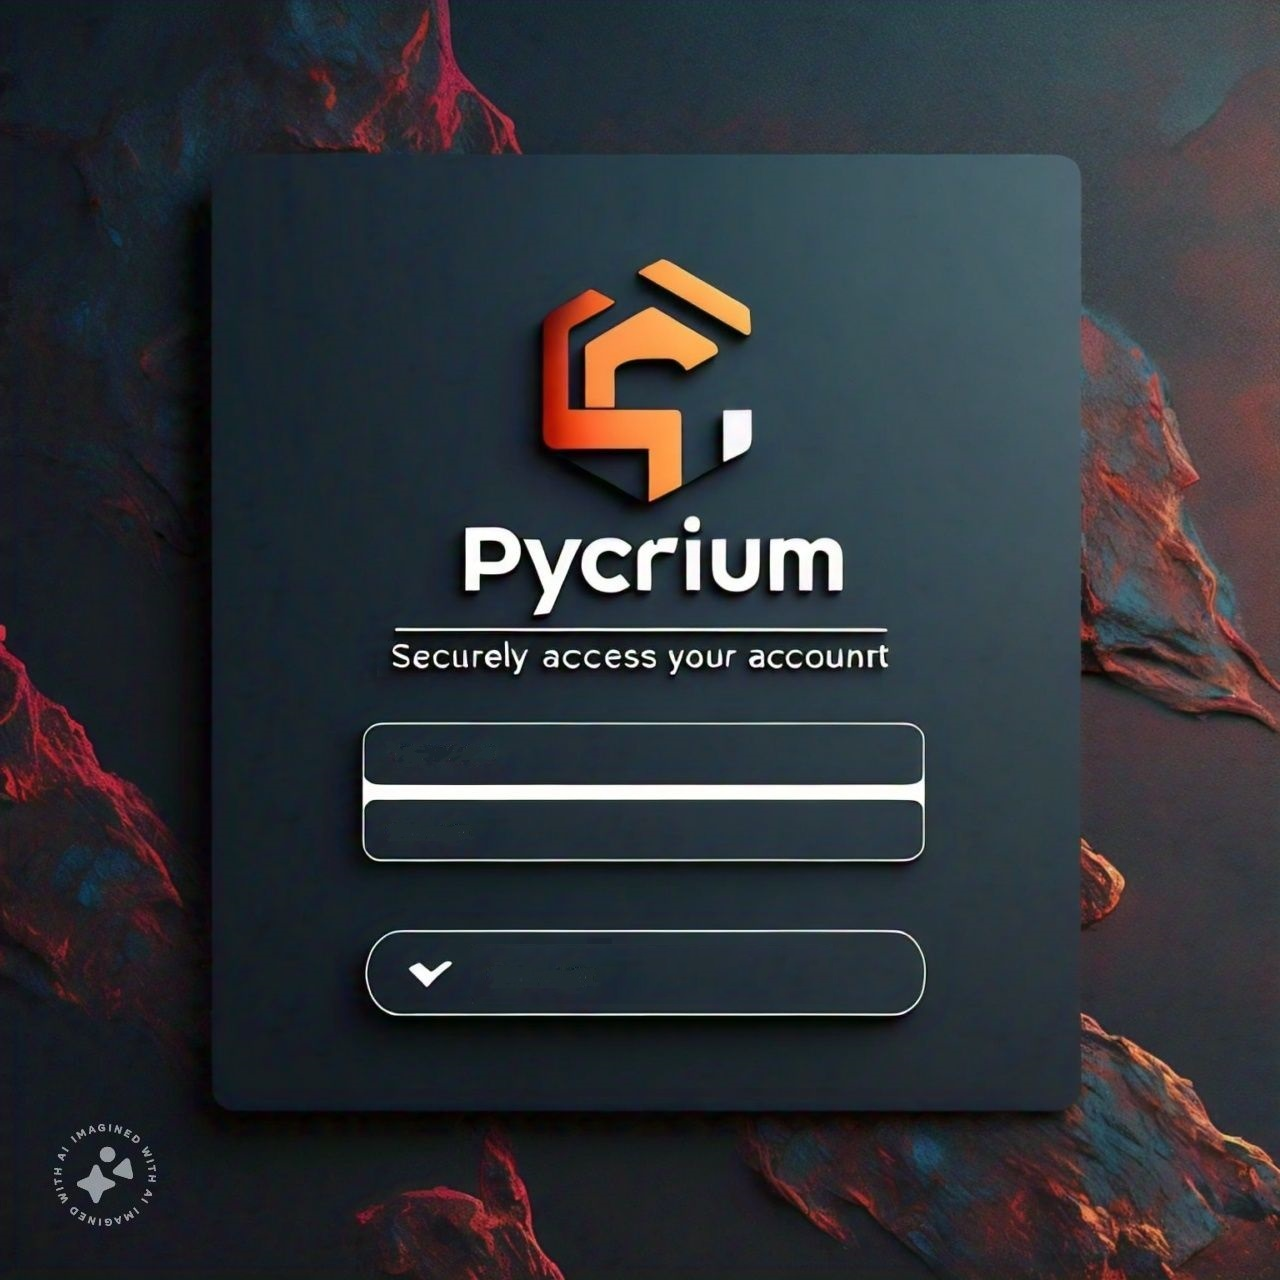
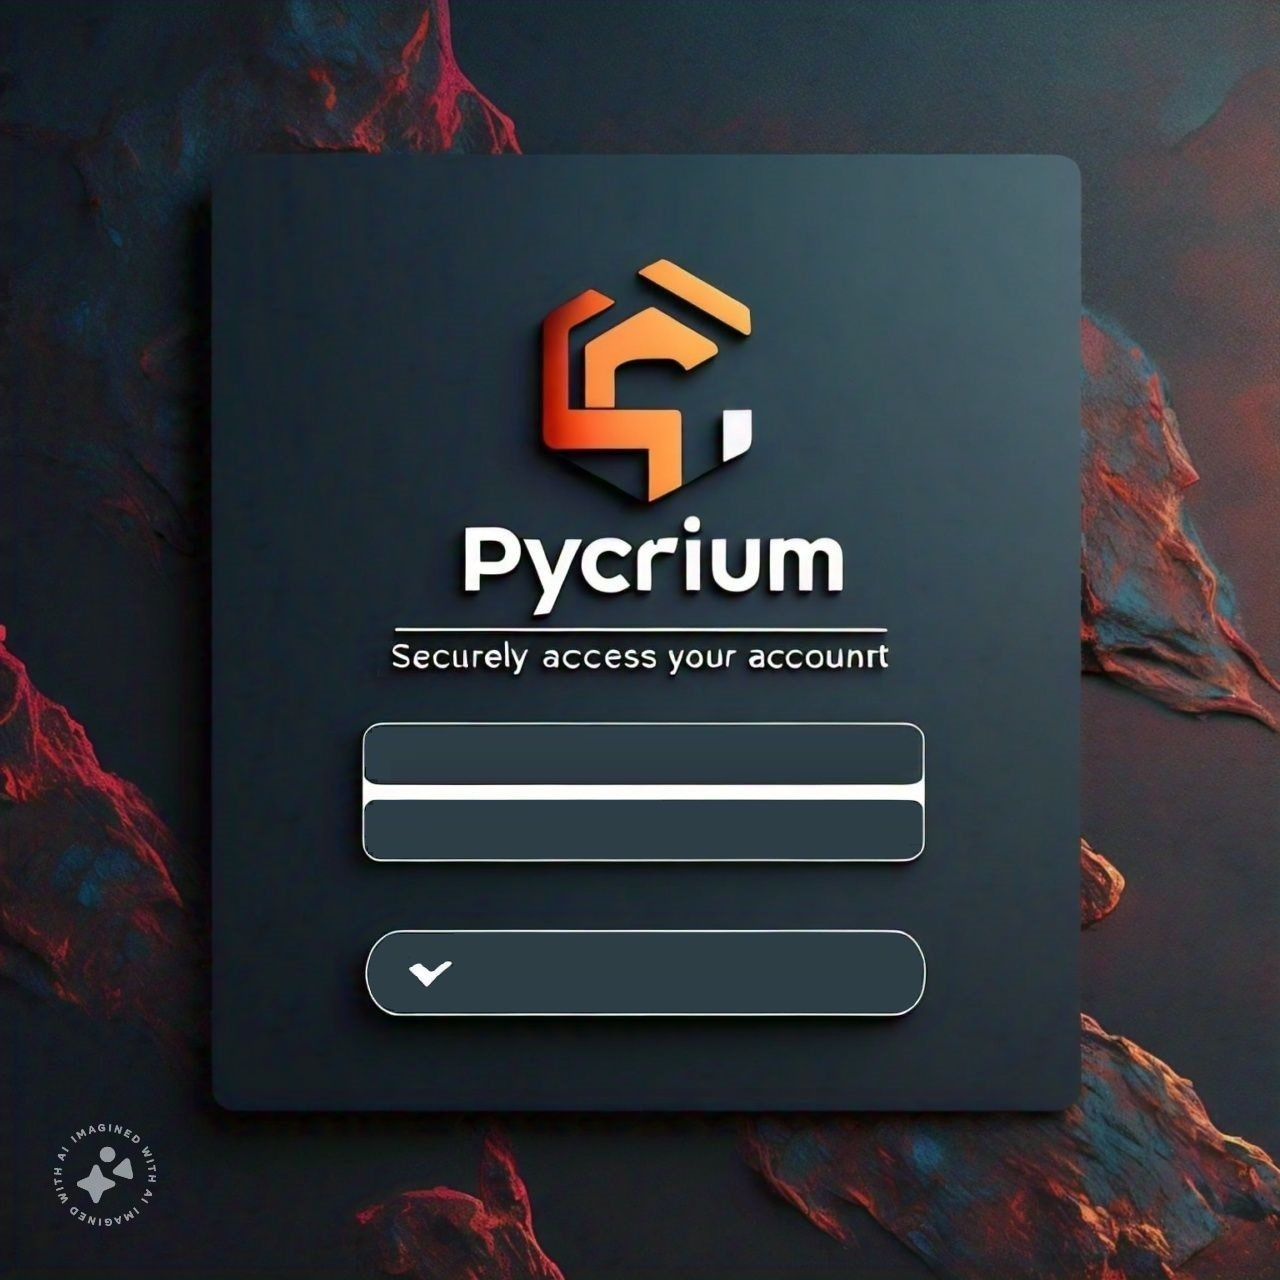
Add files via upload

Changed region(s): [[0.2812, 0.7188, 0.4688, 0.8125], [0.2812, 0.5625, 0.375, 0.6875], [0.4688, 0.75, 0.5, 0.7812]]

diff --git a/Pycrium/main2.py b/Pycrium/main2.py
@@ -5,7 +5,7 @@ import socket
 import pickle
 import re
 
-HOST = '192.168.1.3'
+HOST = '192.168.1.4'
 PORT = 1000
 server = socket.socket(socket.AF_INET,socket.SOCK_STREAM)
 server.connect((HOST, PORT))
@@ -96,29 +96,44 @@ class Login:
         root.title("Login")
         root.attributes('-fullscreen', True)
         root.configure(bg="black")
-        
+
+        def on_entry_click(event,text,object):
+            if object.get()==text:
+                object.delete(0,"end")  
+                if object==password_entry:object.config(show="*")  
+
+        def on_focus_out(event,text,object):
+            if object.get()=='':
+                object.insert(0,text)
+                object.config(show="")
+
         try:
             background_image = assets.GetImage("Assets\\LoginPage\\LoginPage.jpeg")
-            root.background_image = background_image  # Keep a reference to the image object
-            background_label = tk.Label(root, image=background_image)
+            root.background_image = background_image
+            background_label = tk.Label(root, image=background_image, bg='Black')
             background_label.place(x=0, y=0, relwidth=1, relheight=1)
         except Exception as e:
             print("Error loading background image:", e)
 
-        username_label = tk.Label(root, text="Username:")
-        username_label.pack()
-        
-        username_entry = tk.Entry(root)
-        username_entry.pack()
+        username_entry = tk.Entry(root,font=('Gill Sans Ultra Bold',23),fg='White',bg="#2D3E45", width=21,borderwidth=0,highlightthickness=0)
+        username_entry.bind('<FocusIn>', lambda event:on_entry_click(event,"Username",username_entry))
+        username_entry.bind('<FocusOut>', lambda event:on_focus_out(event,"Username",username_entry))
+        username_entry.insert(0, 'Username')
+        username_entry.bind('<KeyPress>', lambda event:"break" if event.char == " " else None)
+        username_entry.config(insertofftime=1000000)
+        username_entry.place(x=416,y=478)
 
-        password_label = tk.Label(root, text="Password:")
-        password_label.pack()
-
-        password_entry = tk.Entry(root, show="*")
-        password_entry.pack()
-
-        error_label = tk.Label(root, text="")
-        error_label.pack()
+        password_entry = tk.Entry(root, font=('Gill Sans Ultra Bold', 23), fg='white', bg="#2D3E45", width=21, borderwidth=0, highlightthickness=0)
+        password_entry.insert(0, 'Password')
+        password_entry.config(insertofftime=1000000)
+        password_entry.bind('<FocusIn>', lambda event:on_entry_click(event,"Password",password_entry))
+        password_entry.bind('<FocusOut>', lambda event:on_focus_out(event,"Password",password_entry))
+        password_entry.bind('<KeyPress>', lambda event:"break" if event.char == " " else None)
+        password_entry.place(x=415, y=553)
+    
+        # def right_click(event):
+        #     print(event.x,event.y)
+        # background_label.bind('<Motion>',right_click)
 
         def login():
             username = username_entry.get()
@@ -127,10 +142,15 @@ class Login:
                 pickle.dump((username,password),open('Assets\\cache\\cache.dat','wb+'))
                 root.destroy()
             else:
-                error_label['text'] = "Invalid username or password"
-        login_button = tk.Button(root, text="Login", command=login)
-        login_button.pack()
+                login_button['fg']='Red'
+                login_button['text']='Invalid Credentials'
+                root.after(2000,error_box)
+        login_button = tk.Button(root,text="Login     ",command=login,font=('Gill Sans Ultra Bold',25),fg='white',bg="#2D3E45",width=14,borderwidth=0,highlightthickness=0,activebackground="#2D3E45",activeforeground='black')
+        login_button.place(x=517,y=683)
+        password_entry.bind('<Return>',lambda event:login())
 
+        def error_box():
+            login_button['text']="Login     ";login_button['fg']='White'
         def switch_to_signup():
             root.destroy()
             Login.signup_window()
@@ -144,7 +164,6 @@ class assets:
         assets.LoginPage = ImageTk.PhotoImage(Image.open("Assets\\LoginPage\\LoginPage.jpeg"))
     def GetImage(address = str):
         return ImageTk.PhotoImage(Image.open(address))
-
 
 username, password = user.check_cache()
 Login(username,password)
